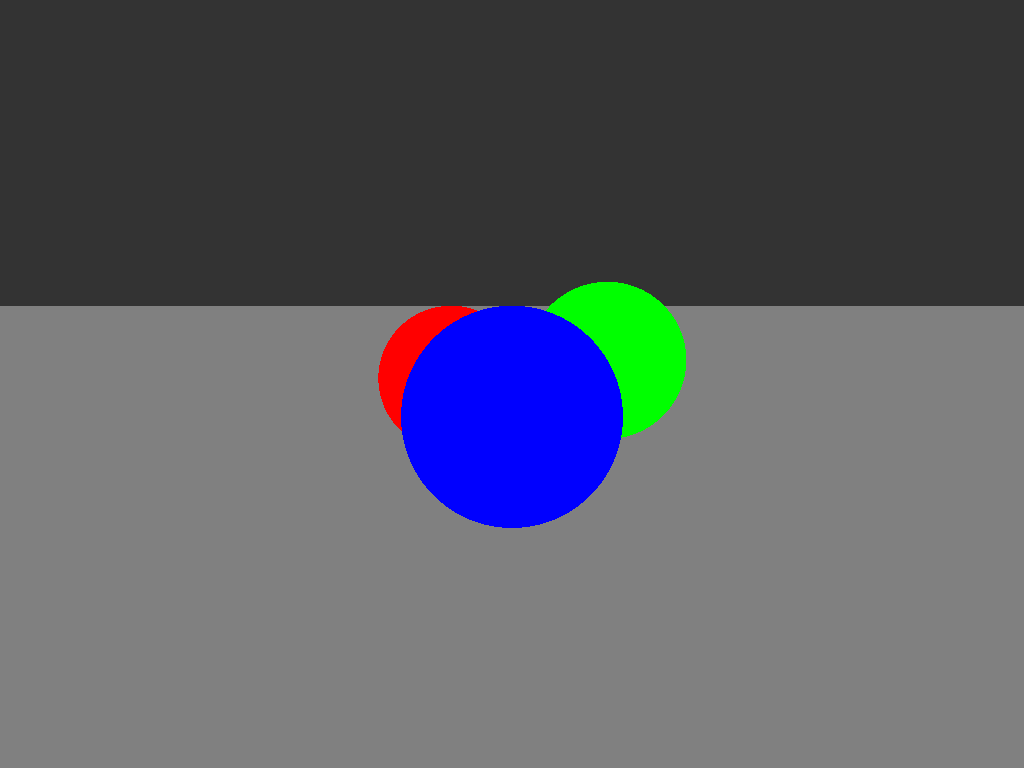
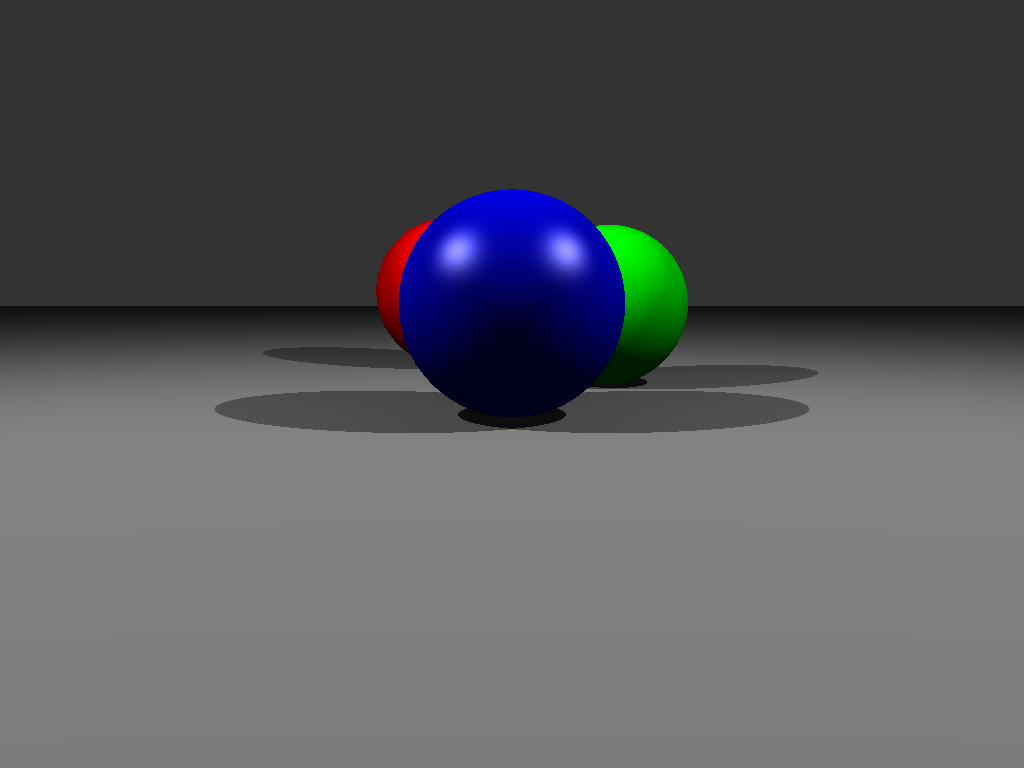
Stage 2 done, build images

Changed region(s): [[0.0, 0.25, 1.0, 0.6875]]

diff --git a/src/main.rs b/src/main.rs
@@ -8,6 +8,7 @@ mod transform;
 mod shapes;
 mod plane;
 mod scene;
+mod light;
 use glam::{Vec3, Quat};
 use crate::camera::Camera;
 use crate::film::Film;
@@ -17,6 +18,7 @@ use crate::material::Material;
 use crate::transform::Transform;
 use crate::plane::Plane;
 use crate::scene::Scene;
+use crate::light::Light;
 
 fn main() {
    
@@ -24,24 +26,27 @@ fn main() {
     let background = Vec3::new(0.2,0.2,0.2);
 
     //creating the scene based on our background
-    let mut scenes = Scene::new(background);
+    let mut scenes = Scene::new(background, Vec3::splat(0.1));
     
+    //creating the light or lights that will be used in the image
+    scenes.add_lights(Light::new(Vec3::new(5.0, 6.0, 2.0), Vec3::splat(0.6)));
+    scenes.add_lights(Light::new(Vec3::new(-5.0, 6.0, 2.0), Vec3::splat(0.6)));
     //making the spherers that will be used in the image
 
     //setting the vlaues for the new sphers
-    let tran1 = Transform::new(Vec3::new(-1.0, -0.2, -5.0), Quat::IDENTITY, Vec3::splat(1.2));
-    let tran2 = Transform::new(Vec3::new(1.2, 0.3, -2.5), Quat::IDENTITY, Vec3::splat(1.0));
-    let tran3 = Transform::new(Vec3::new(0.0,0.0,0.0), Quat::IDENTITY, Vec3::splat(1.0));
+    let tran1 = Transform::new(Vec3::new(-1.0, 1.2, -5.0), Quat::IDENTITY, Vec3::splat(1.2));
+    let tran2 = Transform::new(Vec3::new(1.2, 1.0, -2.5), Quat::IDENTITY, Vec3::splat(1.0));
+    let tran3 = Transform::new(Vec3::new(0.0,1.0,0.0), Quat::IDENTITY, Vec3::splat(1.0));
     let mat1 = Material::lambert(Vec3::new(1.0, 0.0, 0.0));
     let mat2 = Material::lambert(Vec3::new(0.0, 1.0, 0.0));
-    let mat3 = Material::lambert(Vec3::new(0.0, 0.0, 1.0));
+    let mat3 = Material::new(Vec3::new(0.0, 0.0, 1.0), Vec3::ONE, 50.0);
 
     scenes.add(Sphere::new(tran1, mat1));
     scenes.add(Sphere::new(tran2, mat2));
     scenes.add(Sphere::new(tran3, mat3));
 
     //creating the floor plane
-    let tran4 = Transform::new(Vec3::new(0.0, -1.4, 0.0), Quat::IDENTITY, Vec3::splat(3.0));
+    let tran4 = Transform::new(Vec3::new(0.0, 0.0, 0.0), Quat::IDENTITY, Vec3::splat(3.0));
     let mat4 = Material::lambert(Vec3::new(0.5, 0.5, 0.5));
     scenes.add(Plane::new(tran4, mat4));
 

diff --git a/src/render.rs b/src/render.rs
@@ -1,7 +1,9 @@
-use glam::{Vec3};
+use glam::Vec3;
 use crate::camera::Camera;
 use crate::film::Film;
 use crate::scene::Scene;
+use crate::shapes::Hit;
+
 
 pub fn render(cam: &Camera, scene: &Scene, film: &mut Film){
 
@@ -17,11 +19,49 @@ pub fn render(cam: &Camera, scene: &Scene, film: &mut Film){
                     pix_ray.direction(), 1e-3, f32::INFINITY);
 
             let color = match maybe_hit{
-                Some(h) => h.mat.diffuse,
+                Some(h) => shade_pixel(&h, scene, pix_ray.direction()),
                 None => scene.background,
             };
 
             film.set_pixel(x, y, color);
         }
     }
+}
+
+fn shade_pixel(hit: &Hit, scene: &Scene, d: Vec3) -> Vec3{
+
+
+    // calculating v
+    let v = -d.normalize();
+
+    let mut color = hit.mat.diffuse * scene.ambient;
+
+    for light in &scene.lights {
+
+        let direc = (light.position - hit.p);
+        let direc_length = direc.length();
+        let l = direc.normalize();
+
+        //new work for shadow
+
+        if scene.any_hit(hit.p, l, 1e-3, direc_length){
+
+            continue; 
+            
+        }
+
+        let diffuse_fac = hit.n.dot(l).max(0.0);
+
+        let h = (v + l).normalize();
+
+        let spec_fac = hit.n.dot(h).max(0.0).powf(hit.mat.shininess);
+        
+        color += (hit.mat.diffuse * light.intensity * diffuse_fac) + 
+            (hit.mat.specular * light.intensity * spec_fac);
+
+        
+    }
+
+    color
+
 }

diff --git a/src/scene.rs b/src/scene.rs
@@ -1,24 +1,34 @@
 use glam::Vec3;
 use crate::shapes::{Hit, Shape};
+use crate::light::Light;
 
 pub struct Scene{
 
     shapes: Vec<Box<dyn Shape>>, 
+    pub lights: Vec<Light>,
+    pub ambient: Vec3, 
     pub background: Vec3
+
 
 }
 
 impl Scene{
 
-    pub fn new(background: Vec3) -> Self{
+    pub fn new(background: Vec3, ambient: Vec3) -> Self{
 
-        Self{shapes: Vec::new(), background}
+        Self{shapes: Vec::new(), lights: Vec::new(), background, ambient}
 
     }
 
     pub fn add(&mut self, shape: impl Shape + 'static){
-        
+
        self.shapes.push(Box::new(shape));
+
+    }
+
+    pub fn add_lights(&mut self, light: Light){
+        
+        self.lights.push(light);
 
     }
 
@@ -40,6 +50,20 @@ impl Scene{
 
         best
 
+    }
+
+    pub fn any_hit(&self, e: Vec3, d:Vec3, t_min: f32, t_max: f32) -> bool{
+
+
+        for shape in &self.shapes{
+            
+            if shape.hit(e, d, t_min, t_max).is_some(){
+                return true;
+            }
+
+        }
+
+        false
     }
 
 }

diff --git a/src/light.rs b/src/light.rs
@@ -1,0 +1,18 @@
+use glam::Vec3;
+
+#[derive(Debug, Clone, Copy)]
+pub struct Light{
+
+    pub position : Vec3, 
+    pub intensity: Vec3
+}
+
+impl Light{
+
+    pub fn new(position: Vec3, intensity: Vec3) -> Self{
+
+        Self{position, intensity}
+    }
+
+
+}
